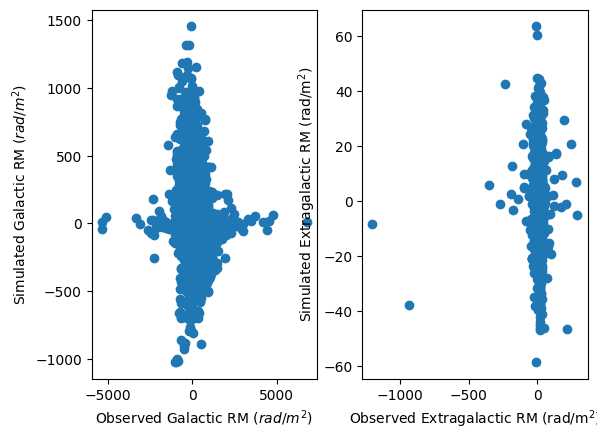
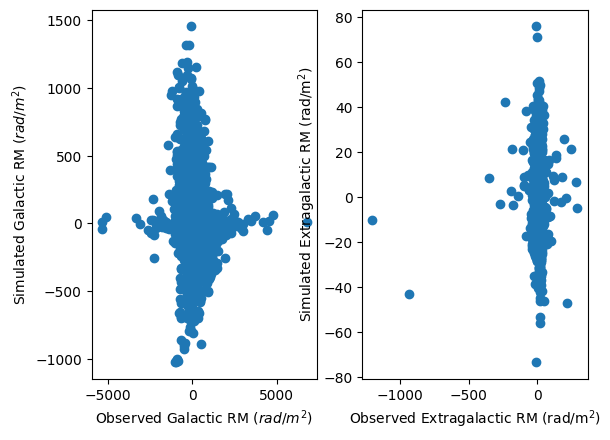
Eta plotting with routine defined in plot.py.

diff --git a/src/helper_functions/minimizer.py b/src/helper_functions/minimizer.py
@@ -2,7 +2,7 @@ import nifty8 as ift
 from .logger import logger, Format
 from posterior_plotter import Posterior_Plotter
 from .minimization_helpers import get_controller, get_n_samples
-from .plot.plot import sky_map_plotting, power_plotting, energy_plotting, scatter_plotting_posterior
+from .plot.plot import sky_map_plotting, power_plotting, energy_plotting, scatter_plotting_posterior, eta_plotting
 import numpy as np
 
 class Minimizer():
@@ -38,22 +38,24 @@ class Minimizer():
             energy_plotting(energy_dict, minimizer_params['plot_path'])
             ident = str(i)
 
-            noise_exc_vals = []
-            it = latest_sample_list.iterator(lambda x: x)
-            for idx, v in enumerate(it):
-                noise_exc_vals.append(v.val['noise_excitations'])
 
-            dom = ift.makeDomain(ift.UnstructuredDomain((len(noise_exc_vals[0]),)))
-            ne_field_1 = ift.Field.from_raw(dom, noise_exc_vals[0])
-            ne_field_2 = ift.Field.from_raw(dom, noise_exc_vals[1])
-            ne_field_3 = ift.Field.from_raw(dom, noise_exc_vals[2])
-            ne_field_4 = ift.Field.from_raw(dom, noise_exc_vals[3])
-            plo = ift.Plot()
-            plo.add(ne_field_1, title="eta_samples1", linewidth=1, color='b')
-            plo.add(ne_field_2, title="eta_samples2", linewidth=1, color='b')
-            plo.add(ne_field_3, title="eta_samples3", linewidth=1, color='b')
-            plo.add(ne_field_4, title="eta_samples4", linewidth=1, color='b')
-            plo.output(name=f"plots/eta_samples_{i}.png")
+            eta_plotting('noise_excitations',[s for s in latest_sample_list.iterator()], minimizer_params['plot_path'], string=ident)
+            #noise_exc_vals = []
+            #it = latest_sample_list.iterator(lambda x: x)
+            #for idx, v in enumerate(it):
+            #    noise_exc_vals.append(v.val['noise_excitations'])
+
+            #dom = ift.makeDomain(ift.UnstructuredDomain((len(noise_exc_vals[0]),)))
+            #ne_field_1 = ift.Field.from_raw(dom, noise_exc_vals[0])
+            #ne_field_2 = ift.Field.from_raw(dom, noise_exc_vals[1])
+            #ne_field_3 = ift.Field.from_raw(dom, noise_exc_vals[2])
+            #ne_field_4 = ift.Field.from_raw(dom, noise_exc_vals[3])
+            #plo = ift.Plot()
+            #plo.add(ne_field_1, title="eta_samples1", linewidth=1, color='b')
+            #plo.add(ne_field_2, title="eta_samples2", linewidth=1, color='b')
+            #plo.add(ne_field_3, title="eta_samples3", linewidth=1, color='b')
+            #plo.add(ne_field_4, title="eta_samples4", linewidth=1, color='b')
+            #plo.output(name=f"plots/eta_samples_{i}.png")
 
             # if minimizer_params['eta'] is not None:
             #     eta_plotting(eta_op, samples)

diff --git a/catalog_maker.py b/catalog_maker.py
@@ -85,6 +85,7 @@ class CatalogMaker():
             plot = ift.Plot()
             plot.add(dm, vmin=-250, vmax=250)
             plot.add(b, vmin=-2.50, vmax=2.50)
+            plot.add(b*dm, vmin=-250, vmax=250)
             plot.output(name='Mock_cat_Seb23_dm_b.png')
 
         else: #CONSISTENT catalog
@@ -156,20 +157,20 @@ class CatalogMaker():
         rm_data[np.isnan(data['z_best'])] +=  N_gal.draw_sample().val
         print(rm_data.min(), rm_data.max(), rm_data.mean())
 
+        #creating mock sigma eg
+        cat_index_eg=np.where(data['catalog']==self.params['params_mock_cat.maker_params.cat_eg'])[0][~np.isnan(np.where(data['catalog']==self.params['params_mock_cat.maker_params.cat_eg'])[0])]
+        sigma_eg = data['rm_err'][cat_index_eg]
+        histogram_sigma_eg = rv_histogram(np.histogram(sigma_eg, bins=100), density=False)
+        sigma_eg_mock=histogram_sigma_eg.rvs(size=lerm)
+        sigma_eg_mock_field=ift.Field.from_raw(ift.UnstructuredDomain(lerm),np.array(sigma_eg_mock))
+        N_eg = ift.DiagonalOperator(sigma_eg_mock_field**2, domain=ift.UnstructuredDomain(lerm), sampling_dtype=np.float64)
+        rm_data[z_indices]+= N_eg.draw_sample().val
 
         if self.params['params_mock_cat.maker_params.eg_on']==1:
-            #creating mock sigma eg
-            cat_index_eg=np.where(data['catalog']==self.params['params_mock_cat.maker_params.cat_eg'])[0][~np.isnan(np.where(data['catalog']==self.params['params_mock_cat.maker_params.cat_eg'])[0])]
-            sigma_eg = data['rm_err'][cat_index_eg]
-            histogram_sigma_eg = rv_histogram(np.histogram(sigma_eg, bins=100), density=False)
-            sigma_eg_mock=histogram_sigma_eg.rvs(size=lerm)
-            sigma_eg_mock_field=ift.Field.from_raw(ift.UnstructuredDomain(lerm),np.array(sigma_eg_mock))
-            N_eg = ift.DiagonalOperator(sigma_eg_mock_field**2, domain=ift.UnstructuredDomain(lerm), sampling_dtype=np.float64)
-
             np.random.seed(seed=self.params['params_mock_cat.maker_params.seed'])
             rand_rm=np.random.normal(0.0, 1.0,len(e_rm))
             egal_contr = emodel.get_model().sqrt()(egal_mock_position).val*rand_rm
-            rm_data[z_indices]+=egal_contr + N_eg.draw_sample().val
+            rm_data[z_indices]+=egal_contr 
             print('std',np.std(egal_contr))
             print('mean',np.mean(egal_contr))
 

diff --git a/src/helper_functions/plot/plot.py b/src/helper_functions/plot/plot.py
@@ -215,6 +215,23 @@ def _density_estimation(m1, m2, xmin, xmax, ymin, ymax, nbins):
     z = np.reshape(kernel(positions).T, x.shape)
     return x, y, z
 
-def eta_plotting(model, plot_obj):
-
-    pass
+def eta_plotting(name, plot_obj, path, string=None, **kwargs):
+    if string is None:
+        string = ''
+    eta_path = path + 'eta/'+ '/'
+    if not os.path.exists(eta_path):
+        os.makedirs(eta_path)
+    plot = ift.Plot()
+    if isinstance(plot_obj, list):
+        sc = ift.StatCalculator()
+        for sample in plot_obj:
+            sc.add(sample[name])
+        m = sc.mean
+        print(m.val)
+    else:
+        m =plot_obj
+    
+    plot.add(m, title="mean", **kwargs)
+    
+    plot.output(name=eta_path + name +'_' + string + ".png")
+    
